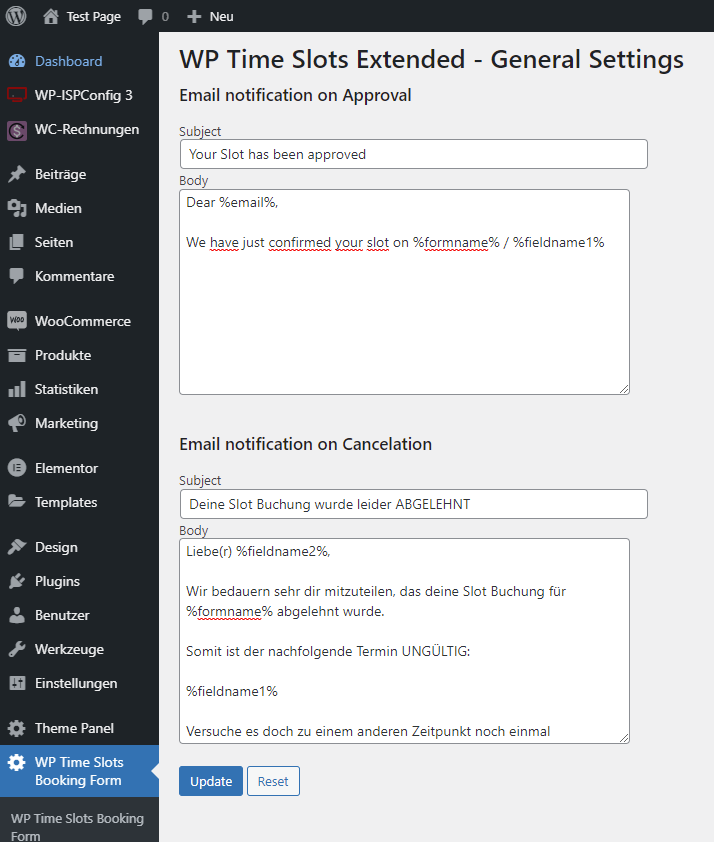
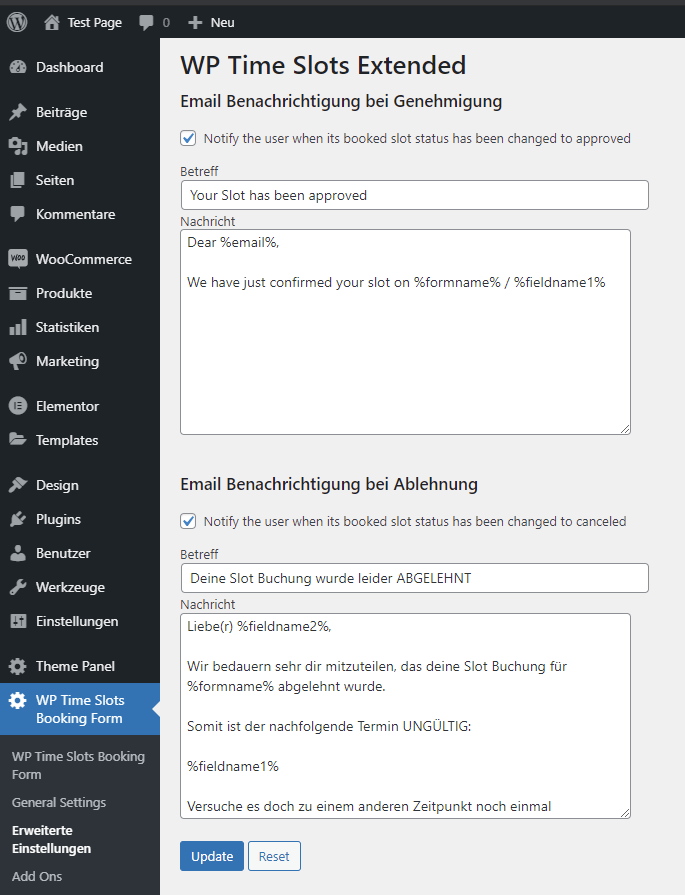
Allow enable or disable the status notifications individually

Changed region(s): [[0.0, 0.0, 1.0, 1.0], [0.8891, 0.8955, 0.9197, 0.9264], [0.8584, 0.8646, 0.8891, 0.8955]]

diff --git a/index.php b/index.php
@@ -48,46 +48,63 @@ class Ole1986_WpTimeSlotExtended extends CP_TSLOTSBOOK_BaseClass {
     }
 
     public function extend_menu() {
-        add_submenu_page( $this->menu_parameter, 'Extended Settings', 'Extended Settings', 'edit_pages', $this->menu_parameter."_extended_settings", array($this, 'settings_page') );
+        add_submenu_page( $this->menu_parameter, 'Extended Settings', __('Extended Settings', 'wp-time-slots-extended'), 'edit_pages', $this->menu_parameter."_extended_settings", [$this, 'settings_page'], 2);
     }
 
     public function settings_page() {
 
         if (!empty($_POST)) {
             if ($_POST['submit'] == "Reset") {
+                delete_option('cp_cptslotextended_approved');
                 delete_option('cp_cptslotextended_subject_approved');
                 delete_option('cp_cptslotextended_body_approved');
+
+                delete_option('cp_cptslotextended_canceled');
                 delete_option('cp_cptslotextended_subject_canceled');
                 delete_option('cp_cptslotextended_body_canceled');
             } else {
+                update_option('cp_cptslotextended_approved', sanitize_key($_POST['cp_cptslotextended_approved']));
                 update_option('cp_cptslotextended_subject_approved', sanitize_text_field($_POST['cp_cptslotextended_subject_approved']));
                 update_option('cp_cptslotextended_body_approved', sanitize_textarea_field($_POST['cp_cptslotextended_body_approved']));
+
+                update_option('cp_cptslotextended_canceled', sanitize_key($_POST['cp_cptslotextended_canceled']));
                 update_option('cp_cptslotextended_subject_canceled', sanitize_text_field($_POST['cp_cptslotextended_subject_canceled']));
                 update_option('cp_cptslotextended_body_canceled', sanitize_textarea_field($_POST['cp_cptslotextended_body_canceled']));
             }
         }
 
         ?>
-        <h1>WP Time Slots Extended - <?php _e('General Settings','wp-time-slots-booking-form'); ?></h1>
+        <h1>WP Time Slots Extended</h1>
         <form name="updatesettings" action="" method="post">
-            <h3>Email notification on Approval</h3>
+            <h3><?php _e('Email notification on Approval', 'wp-time-slots-extended') ?></h3>
+            <p>
+                <label><input type="checkbox" name="cp_cptslotextended_approved" value="1" <?php echo (get_option('cp_cptslotextended_approved', 0) ? 'checked' : '') ?>>
+                    <?php _e('Notify the user when its booked slot status has been changed to approved', 'wp-time-slots-extended') ?>
+                </label>
+            </p>
             <div>
-                <label>Subject</label><br />
+                <label><?php _e('Subject', 'wp-time-slots-extended') ?></label><br />
                 <input type="text" name="cp_cptslotextended_subject_approved" size="70" value="<?php echo esc_attr(get_option('cp_cptslotextended_subject_approved', 'Your Slot has been approved')); ?>" /><br />
             </div>
 
             <div>
-                <label>Body</label><br />
+                <label><?php _e('Message', 'wp-time-slots-extended') ?></label><br />
                 <textarea name="cp_cptslotextended_body_approved" rows="10" cols="70"><?php echo esc_attr(get_option('cp_cptslotextended_body_approved', "Dear %email%,\r\n\r\nWe have just confirmed your slot on %formname% / %fieldname1%")); ?></textarea><br />
             </div>
             <div>&nbsp;</div>
-            <h3>Email notification on Cancelation</h3>
+            <h3><?php _e('Email notification on Cancelation', 'wp-time-slots-extended') ?></h3>
+            <p>
+                <label>
+                    <input type="checkbox" name="cp_cptslotextended_canceled" value="1" <?php echo (get_option('cp_cptslotextended_canceled', 0) ? 'checked' : '') ?>>
+                    <?php _e('Notify the user when its booked slot status has been changed to canceled', 'wp-time-slots-extended') ?>
+                </label>
+            </p>
             <div>
-                <label>Subject</label><br />
+            <label><?php _e('Subject', 'wp-time-slots-extended') ?></label><br />
                 <input type="text" name="cp_cptslotextended_subject_canceled" size="70" value="<?php echo esc_attr(get_option('cp_cptslotextended_subject_canceled', 'Your Slot has been CANCELED')); ?>" /><br />
             </div>
             <div>
-                <label>Body</label><br />
+                <label><?php _e('Message', 'wp-time-slots-extended') ?></label><br />
                 <textarea name="cp_cptslotextended_body_canceled" rows="10" cols="70"><?php echo esc_attr(get_option('cp_cptslotextended_body_canceled', "Dear %email%,\r\n\r\nwe deeply regret that we had to cance your slot on %formname% / %fieldname1%")); ?></textarea><br />
             </div>
             <div>&nbsp;</div>
@@ -111,11 +128,13 @@ class Ole1986_WpTimeSlotExtended extends CP_TSLOTSBOOK_BaseClass {
 
         switch($status) {
             default:
+                if (empty(get_option('cp_cptslotextended_approved'))) return;
                 $subject = get_option('cp_cptslotextended_subject_approved', 'Your Slot has been approved');
                 $body = get_option('cp_cptslotextended_body_approved',  "Dear %email%,\r\n\r\nWe have just confirmed your slot on %formname% / %fieldname1%");
                 break;
             case 'canceled':
             case 'cancelled':
+                if (empty(get_option('cp_cptslotextended_canceled'))) return;
                 $subject = get_option('cp_cptslotextended_subject_canceled', 'Your Slot has been CANCELED');
                 $body = get_option('cp_cptslotextended_body_canceled',  "Dear %email%,\r\n\r\nwe deeply regret that we had to cance your slot on %formname% / %fieldname1%");
                 break;
